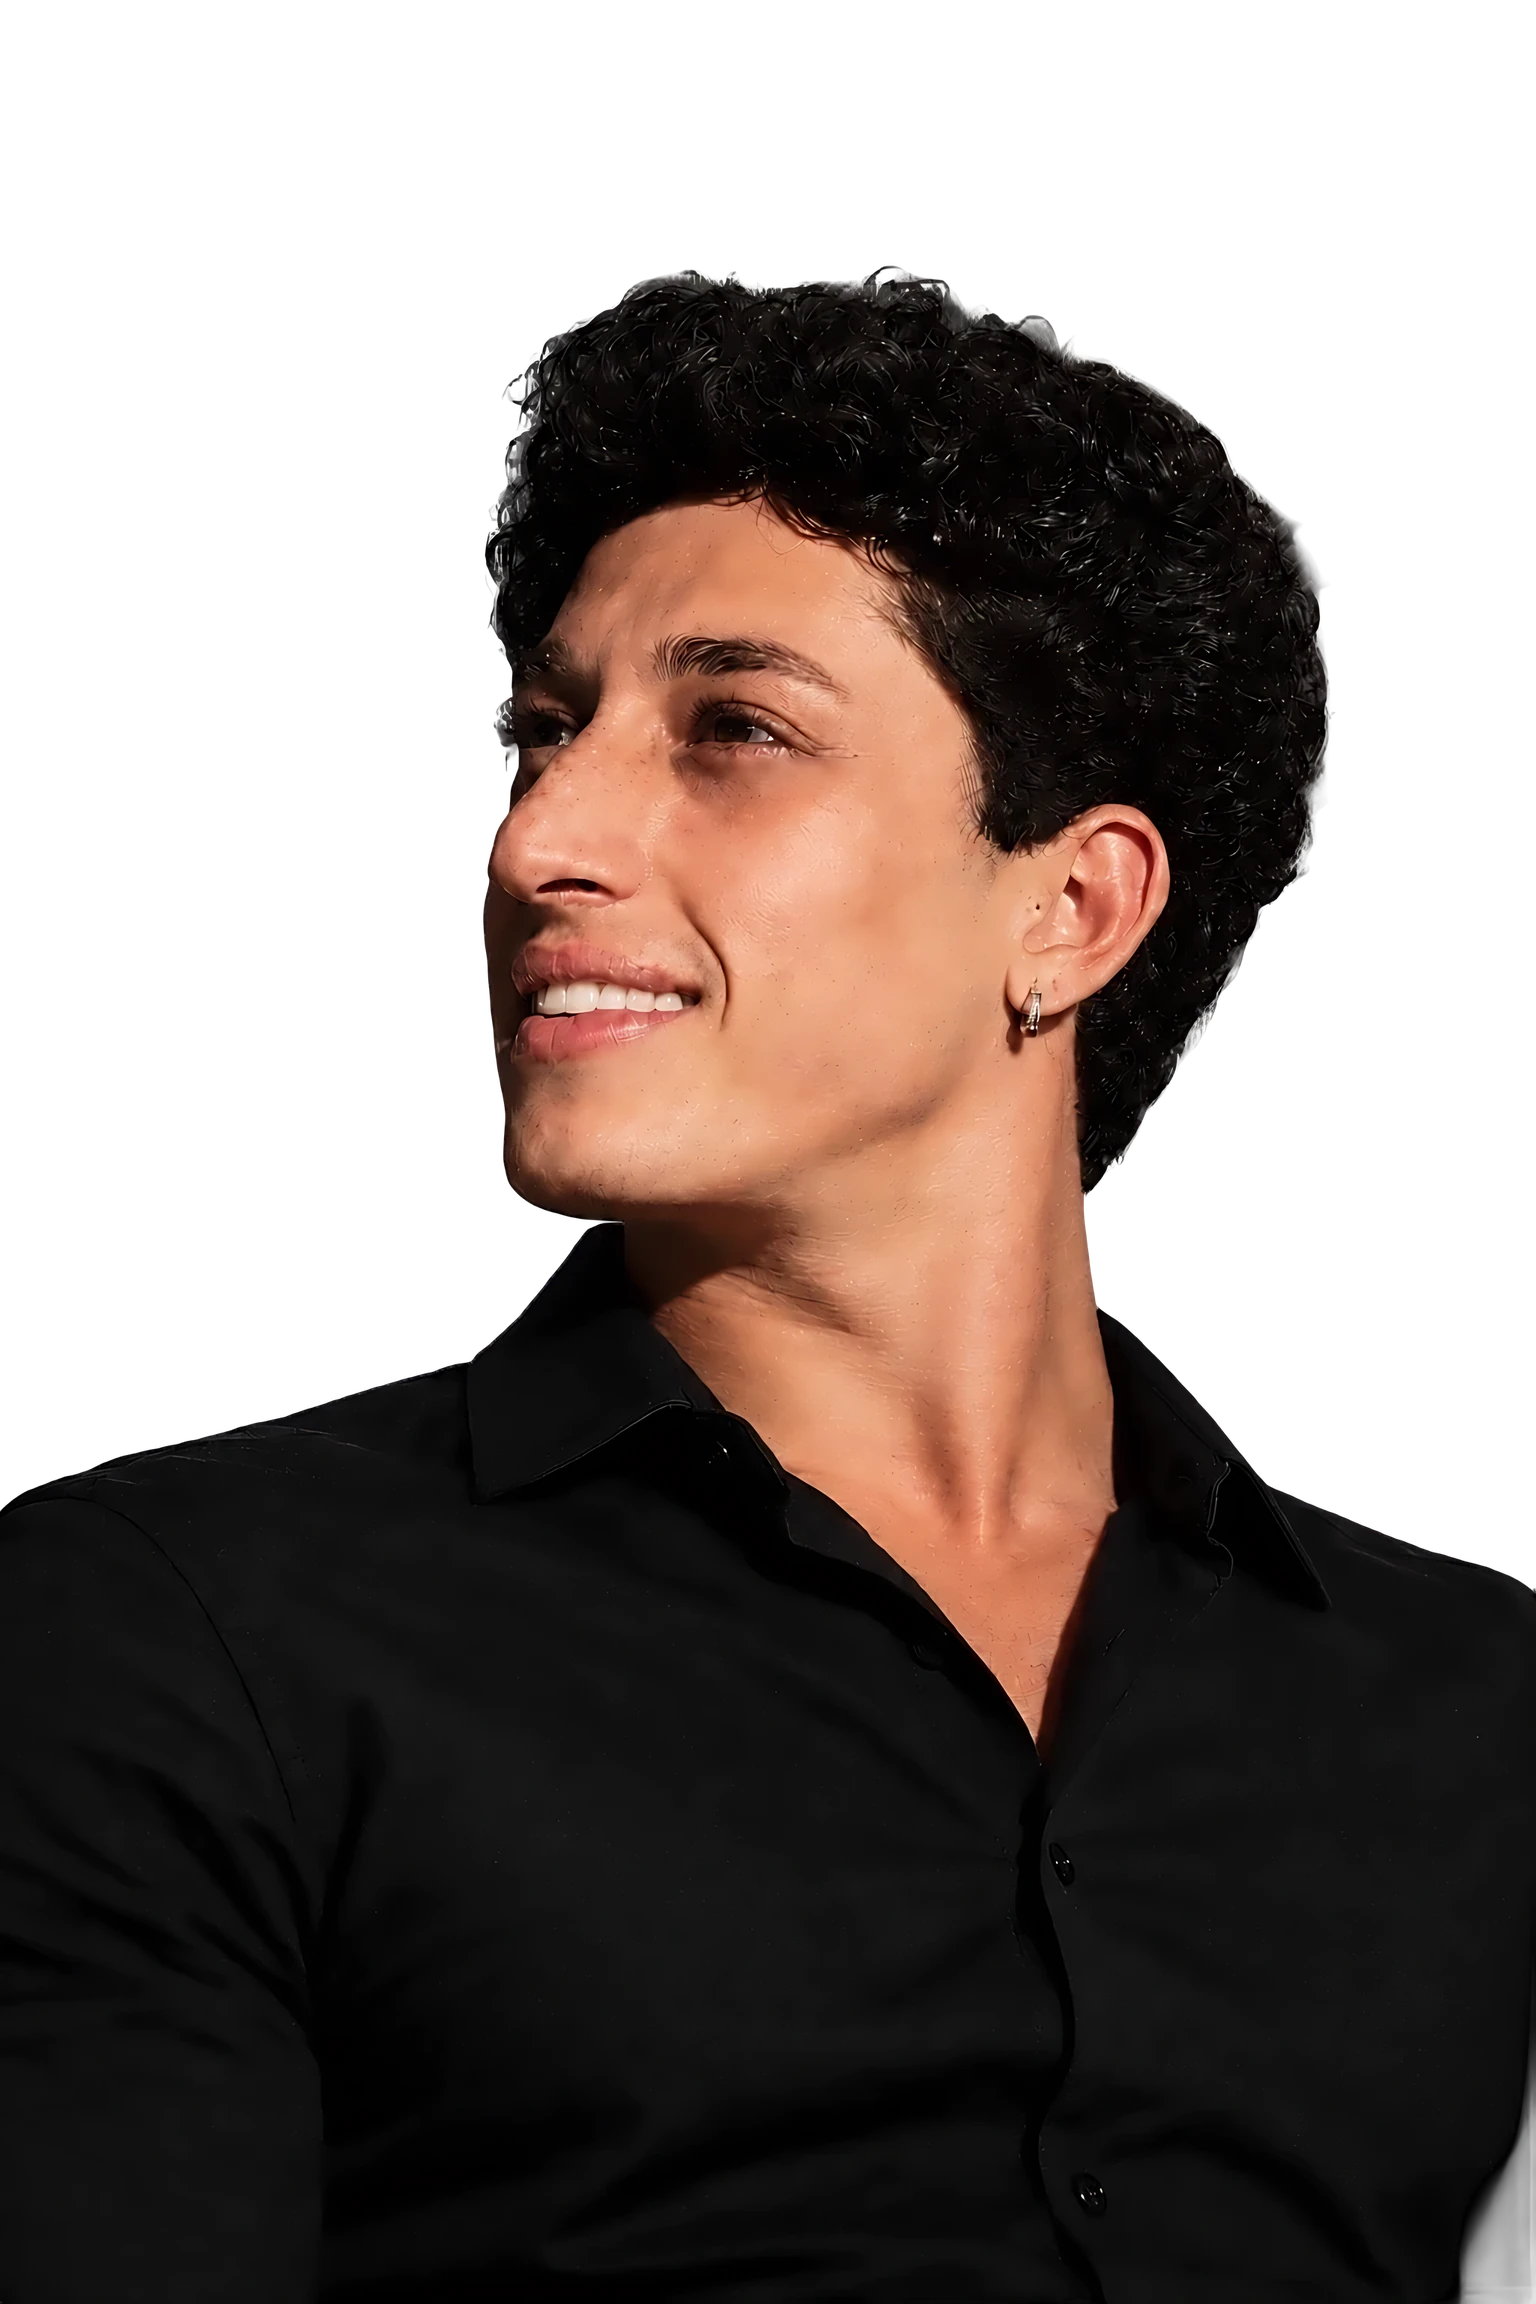
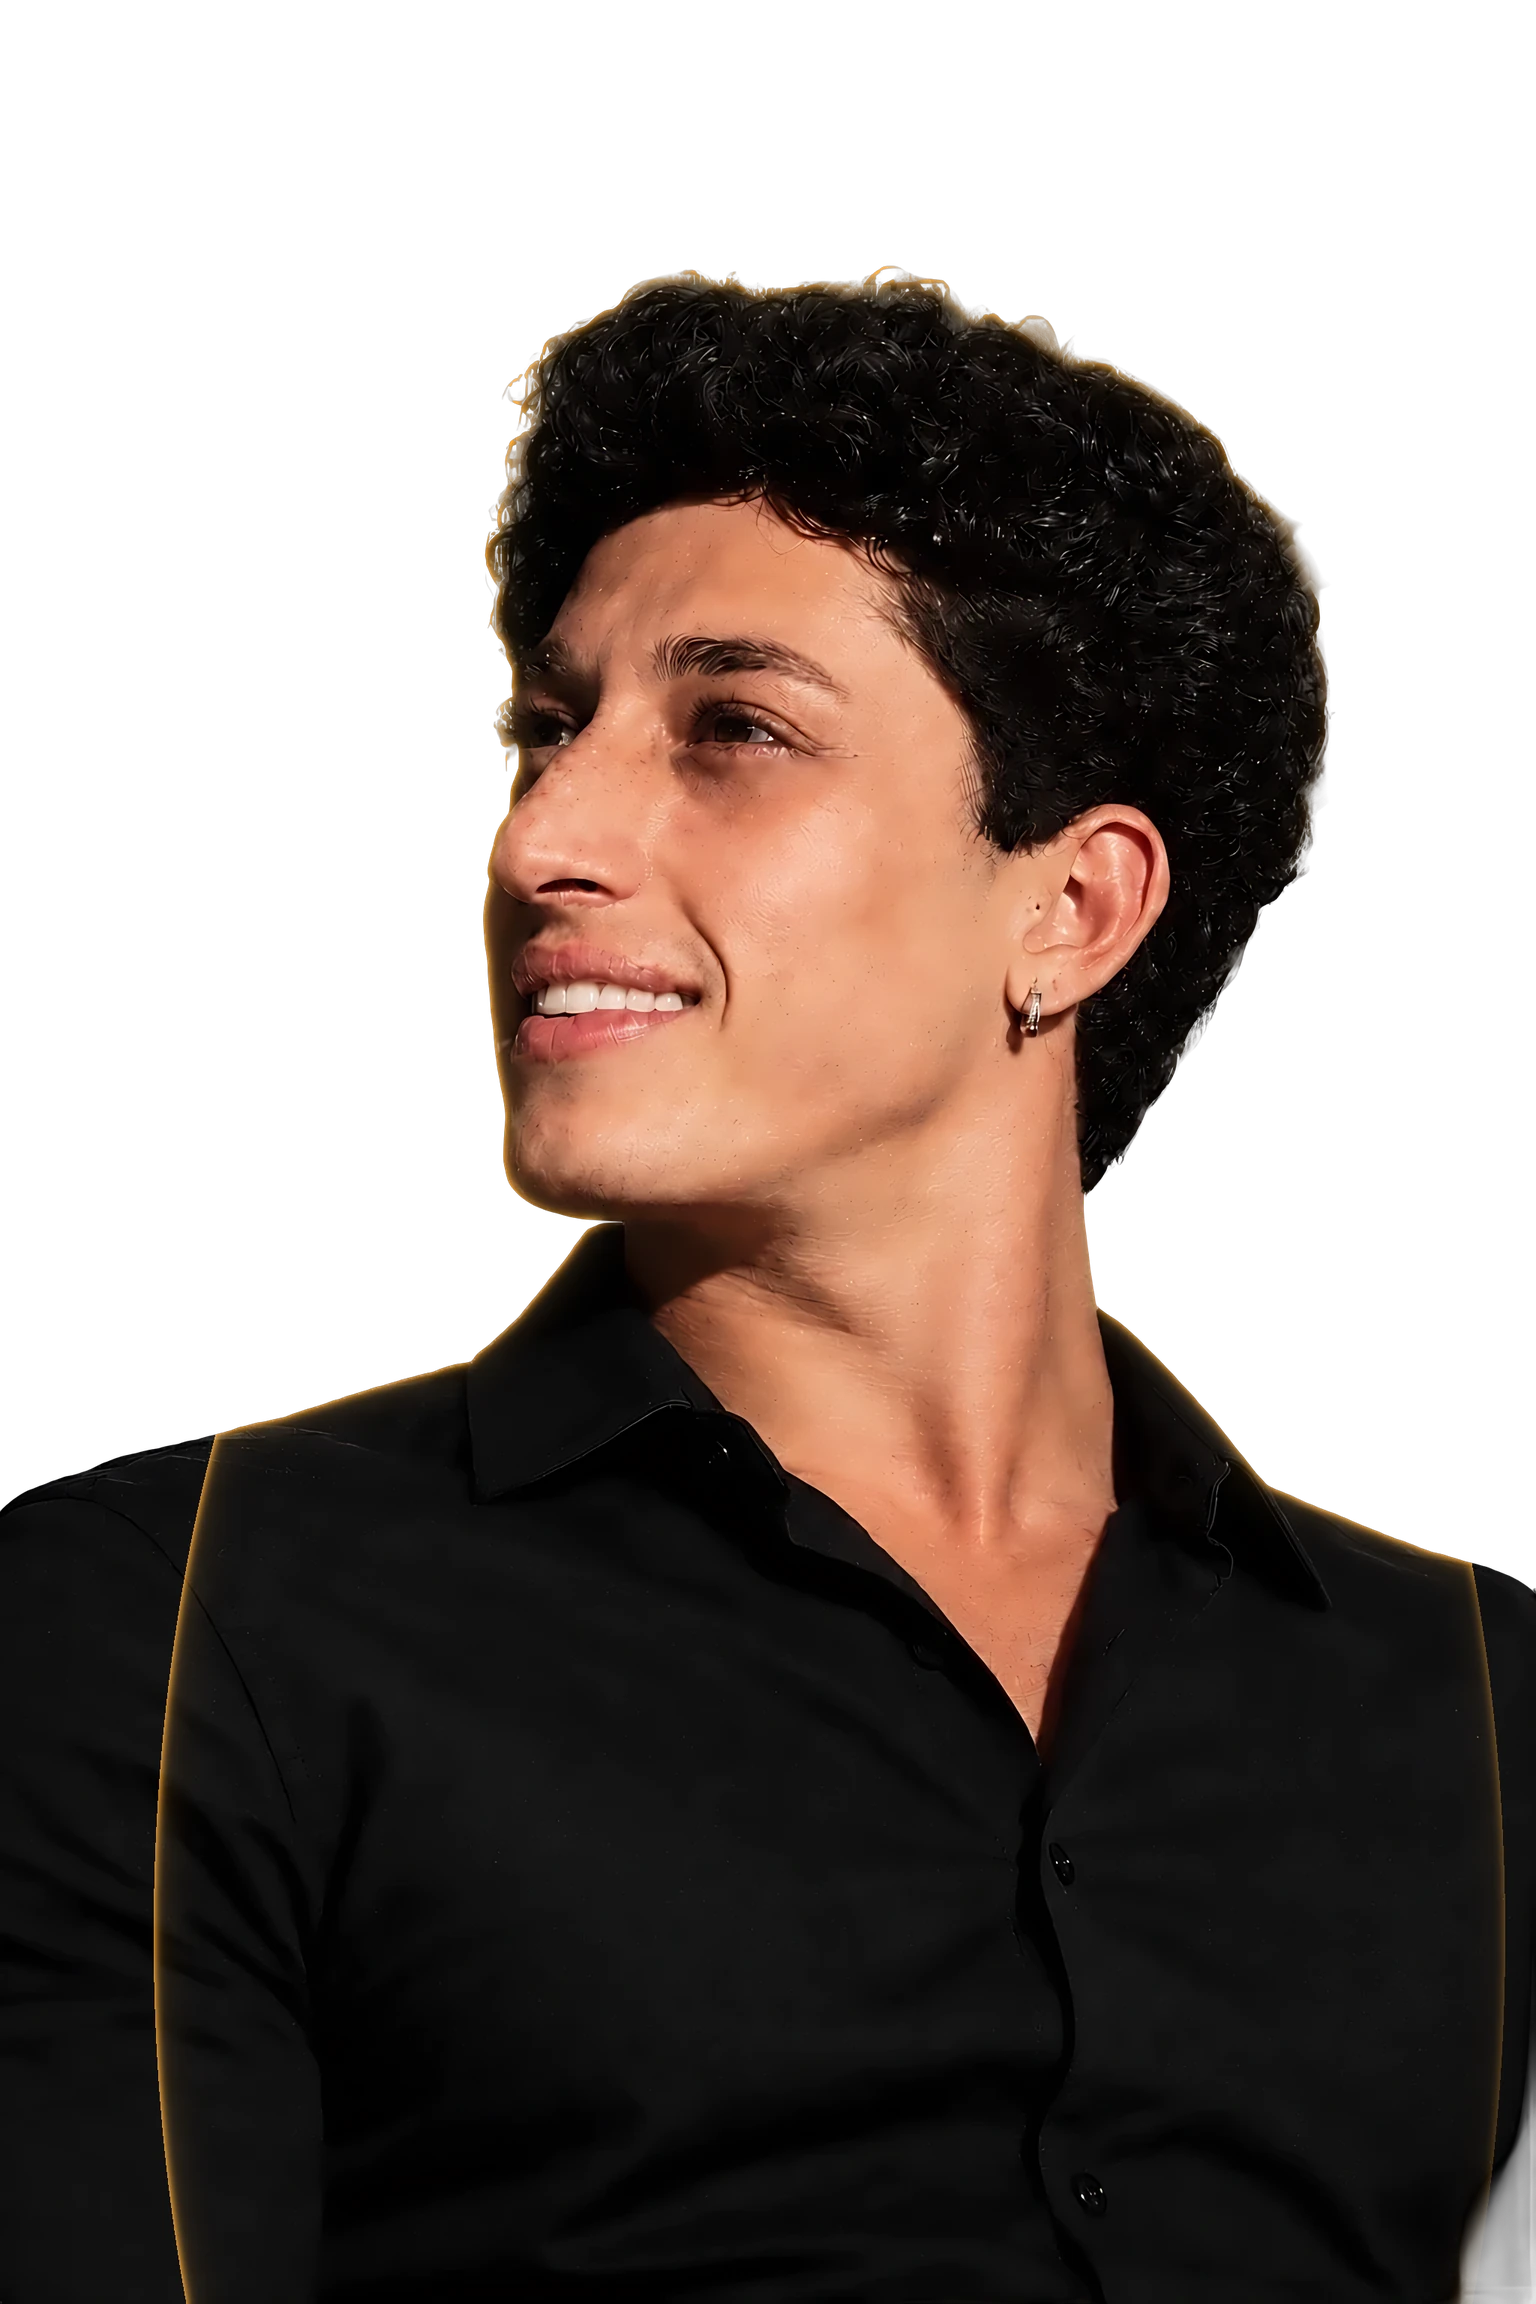
Hero: design amarelo igual à referência e brilho amarelo em volta da foto
As formas e cores foram medidas na imagem de referência (ajuste por mínimos
quadrados): fundo com o canto café, o vermelho-alaranjado e o brilho laranja
em volta da pessoa; um círculo vermelho-alaranjado no alto e um disco amarelo
atrás do ombro, os dois recortados por uma oval inclinada em volta da cabeça.
O desenho (svg.hero-art) tem a mesma caixa da foto e anda junto com ela
(entrada, mouse e rolagem), atrás do painel claro. Sai o "sol" com anéis.
Brilho amarelo: luz de contorno âmbar gravada na própria foto (como a luz de
fundo da referência) e um halo amarelo suave em volta da pessoa. O fundo da
hero fica parado (antes deslizava o tempo todo).

Claude-Session: https://claude.ai/code/session_01VHr8XGPDqS1aNneSxKosH7

diff --git a/css/style.css b/css/style.css
@@ -1491,40 +1491,34 @@ html.leve .pj-bg::before { -webkit-mask-image: none; mask-image: none; opacity: 
 @media (prefers-reduced-motion: reduce) { .intro .btn-work, .intro .btn-work::before, .intro .btn-work::after { animation: none; } }
 html.leve .intro .btn-work, html.leve .intro .btn-work::before, html.leve .intro .btn-work::after { animation: none; }
 
-/* ---------- Hero: o "sol" amarelo atrás da foto ----------
-   Paleta amarela da referência: um disco de luz amarelo → âmbar → laranja atrás da cabeça, com borda que se
-   dissolve no laranja do fundo, anéis concêntricos bem finos (dourados) em volta e um halo largo e suave.
-   Fica atrás do painel claro e da foto (z-index -1). Respira devagar; parado fora da tela, com "menos
-   movimento" e no modo leve. */
-.hero-sun {
-  position: absolute; z-index: -1; pointer-events: none;
-  left: 50cqw; top: 39.5cqh; width: 72cqh; aspect-ratio: 1; transform: translate(-50%, -50%);
+/* ---------- Hero: design amarelo da referência (svg.hero-art) ----------
+   Mesma caixa da foto (.person) para o desenho acompanhar a pessoa em qualquer tela; atrás do painel claro.
+   O fundo (.hero-bg) tem as cores medidas na referência: canto café, vermelho-alaranjado e o brilho laranja
+   em volta da pessoa, que aparece dentro da oval recortada. Tudo parado (nada repinta). */
+.hero-art {
+  position: absolute; z-index: -1; left: 48cqw; bottom: -10cqh; height: 117.5cqh; aspect-ratio: 1024 / 1536;
+  transform: translateX(-50%); overflow: visible; pointer-events: none;
 }
-.hero-sun::before {   /* halo largo amarelo-âmbar */
-  content: ""; position: absolute; inset: -38%; border-radius: 50%;
-  background: radial-gradient(closest-side, rgba(255, 196, 64, .55), rgba(255, 166, 40, .28) 45%, rgba(255, 140, 30, 0) 100%);
-}
-.hero-sun i {         /* o disco: centro amarelo-claro, borda âmbar que se dissolve */
-  position: absolute; inset: 0; border-radius: 50%;
+.gsap-loading .hero-art { opacity: 0; }
+.hero-bg, .hero-bg::after { animation: none !important; }
+.hero-bg { inset: 0; }
+.hero-bg::after { display: none; }
+.hero-bg {
   background:
-    radial-gradient(circle at 46% 42%, #fff1b8 0%, #ffe07a 16%, #ffc83d 36%, #ffab2a 56%, rgba(255, 140, 30, .55) 72%, rgba(255, 128, 28, 0) 82%);
-  box-shadow: 0 0 80px 20px rgba(255, 186, 60, .35);
-  animation: sun-breathe 7s ease-in-out infinite alternate;
+    radial-gradient(63.6cqh 91.6cqh at calc(48cqw - 21.2cqh) 71.3cqh, rgba(255, 153, 20, .87) 0%, rgba(255, 153, 20, .26) 50.8%, rgba(255, 153, 20, 0) 100%),
+    radial-gradient(39.3cqw 80cqh at 0 0, rgba(52, 26, 14, .58) 0%, rgba(52, 26, 14, 0) 100%),
+    linear-gradient(148deg, #b80a01 0%, #c34015 35%, #bf3e02 66.9%, #f36800 100%);
 }
-.hero-sun::after {    /* anéis concêntricos finos */
-  content: ""; position: absolute; inset: -30%; border-radius: 50%;
-  background: repeating-radial-gradient(circle, rgba(255, 224, 140, 0) 0 calc(6.2% - 1px), rgba(255, 224, 140, .42) calc(6.2% - 1px) 6.2%);
-  -webkit-mask-image: radial-gradient(closest-side, transparent 52%, #000 60%, #000 74%, transparent 100%);
-          mask-image: radial-gradient(closest-side, transparent 52%, #000 60%, #000 74%, transparent 100%);
-  opacity: .85;
-}
-@keyframes sun-breathe { from { transform: scale(.97); filter: brightness(.97); } to { transform: scale(1.03); filter: brightness(1.05); } }
 @media (max-width: 860px), (max-aspect-ratio: 4/5), (orientation: landscape) and (max-height: 500px) and (max-width: 1000px) {
-  .hero-sun { left: 50%; top: calc(var(--stage) * .5); width: min(118vw, calc(var(--stage) * .62)); }
+  .hero-art { position: relative; z-index: 1; grid-row: 1; grid-column: 1; left: 50%; bottom: auto; transform: translateX(-50%);
+    align-self: end; justify-self: start; width: min(100%, calc(var(--stage) * .5)); height: auto; margin: 0; }
+  .hero-bg {
+    background:
+      radial-gradient(80vw 46svh at 42% 72%, rgba(255, 153, 20, .85) 0%, rgba(255, 153, 20, .26) 50%, rgba(255, 153, 20, 0) 100%),
+      radial-gradient(80vw 50svh at 0 0, rgba(52, 26, 14, .6) 0%, rgba(52, 26, 14, 0) 100%),
+      linear-gradient(165deg, #b80a01 0%, #c34015 30%, #bf3e02 60%, #f36800 100%);
+  }
 }
 @media (orientation: landscape) and (max-height: 500px) and (max-width: 1000px) {
-  .hero-sun { left: 58%; top: calc(var(--stage) * .46); width: calc(var(--stage) * .82); }
+  .hero-art { grid-column: 1 / -1; left: 58%; width: calc(var(--stage) * .92 * 2 / 3); }
 }
-@media (prefers-reduced-motion: reduce) { .hero-sun i { animation: none; } }
-html.leve .hero-sun i { animation: none; }
-.gsap-loading .hero-sun { opacity: 0; }

diff --git a/js/main.js b/js/main.js
@@ -6,6 +6,8 @@ const reduceMotion = matchMedia('(prefers-reduced-motion: reduce)').matches;
 const leve = () => document.documentElement.classList.contains('leve');
 const hero = document.querySelector('.hero');
 const person = document.querySelector('.person');
+const art = document.querySelector('.hero-art');   // design amarelo atrás da foto: anda junto com ela
+const withArt = art ? [person, art] : person;
 const { gsap, ScrollTrigger } = window;
 const animate = Boolean(gsap && hero) && !reduceMotion;
 // mesma condição do layout de celular no css/style.css
@@ -101,7 +103,7 @@ if (animate) {
   nums.forEach(resetCount);
 
   // a foto é centralizada com translateX(-50%) no CSS; o GSAP passa a cuidar do transform
-  gsap.set(person, { xPercent: -50, x: 0, y: 0 });
+  gsap.set(withArt, { xPercent: -50, x: 0, y: 0 });
 
   // clearProps devolve o controle ao CSS no fim (efeitos de hover usam transform)
   const tl = gsap.timeline({ defaults: { ease: 'expo.out' } });
@@ -127,6 +129,7 @@ if (animate) {
   // fixo de 0,5 s: o painel claro aparecia através dela ("branco por cima da foto, depois
   // atrás") e, com internet lenta, ela surgia pela metade. Se demorar, entra assim que chegar.
   gsap.set(person, { autoAlpha: 0 });
+  if (art) gsap.set(art, { autoAlpha: 0, scale: 0.94, transformOrigin: '50% 45%' });
   photoReady().then(() => requestAnimationFrame(() => requestAnimationFrame(() => {
     gsap.fromTo(person,
       // sobe de baixo da moldura, inteira e opaca (sem efeito de aparecer)
@@ -134,6 +137,8 @@ if (animate) {
       { autoAlpha: 1, yPercent: 100 },
       { yPercent: 0, duration: 1.4, ease: 'expo.out',
         delay: Math.max(0, 0.5 - tl.time()) });
+    // o desenho amarelo aparece atrás quando a foto está chegando
+    if (art) gsap.to(art, { autoAlpha: 1, scale: 1, duration: 1.3, ease: 'expo.out', delay: Math.max(0, 0.5 - tl.time()) + 0.55 });
   })));
 
   // conteúdo do painel: selo, apresentação palavra por palavra e card da citação
@@ -172,19 +177,21 @@ if (animate && person) {
     // 1,8 s para alcançar o mouse (antes 0,9 s): o usuário pediu a foto mais lenta
     const toX = gsap.quickTo(person, 'x', { duration: 1.8, ease: 'power3.out' });
     const toY = gsap.quickTo(person, 'y', { duration: 1.8, ease: 'power3.out' });
+    const artX = art ? gsap.quickTo(art, 'x', { duration: 1.8, ease: 'power3.out' }) : () => {};
+    const artY = art ? gsap.quickTo(art, 'y', { duration: 1.8, ease: 'power3.out' }) : () => {};
     const move = (e) => {
       const r = hero.getBoundingClientRect();
-      toX((((e.clientX - r.left) / r.width) * 2 - 1) * 18);   // antes 26 px: o usuário pediu menos parallax
-      toY((((e.clientY - r.top) / r.height) * 2 - 1) * 11);   // antes 16 px
+      const mx = (((e.clientX - r.left) / r.width) * 2 - 1) * 18, my = (((e.clientY - r.top) / r.height) * 2 - 1) * 11;   // antes 26/16 px
+      toX(mx); toY(my); artX(mx); artY(my);
     };
-    const reset = () => { toX(0); toY(0); };
+    const reset = () => { toX(0); toY(0); artX(0); artY(0); };
     hero.addEventListener('pointermove', move);
     hero.addEventListener('pointerleave', reset);
     return () => { hero.removeEventListener('pointermove', move); hero.removeEventListener('pointerleave', reset); };
   });
   mm.add('not ((hover: hover) and (pointer: fine))', () => {
     if (!ScrollTrigger) return;
-    gsap.to(person, { y: () => innerHeight * 0.18, ease: 'none',
+    gsap.to(withArt, { y: () => innerHeight * 0.18, ease: 'none',
       scrollTrigger: { trigger: hero, start: 'top top', end: 'bottom top', scrub: 0.6, invalidateOnRefresh: true } });
   });
   // PC: descendo a página, a foto desce junto (30% da altura dela até a hero sair da tela);
@@ -192,7 +199,7 @@ if (animate && person) {
   // mesmo efeito acima, com y.)
   mm.add('(hover: hover) and (pointer: fine)', () => {
     if (!ScrollTrigger) return;
-    gsap.to(person, { yPercent: 30, ease: 'none',
+    gsap.to(withArt, { yPercent: 30, ease: 'none',
       scrollTrigger: { trigger: hero, start: 'top top', end: 'bottom top', scrub: 0.6, invalidateOnRefresh: true } });
   });
 }

diff --git a/index.html b/index.html
@@ -52,8 +52,29 @@
 <main class="hero">
   <!-- Lado laranja: fundo em gradiente com o brilho que flutua, logo, textos e números -->
   <div class="hero-bg" aria-hidden="true"></div>
-  <!-- "sol" amarelo atrás da foto: brilho amarelo-âmbar com anéis finos em volta (css/style.css) -->
-  <div class="hero-sun" aria-hidden="true"><i></i></div>
+  <!-- design amarelo atrás da foto, igual à referência: círculo vermelho-alaranjado no alto e disco amarelo
+       atrás do ombro, os dois recortados por uma oval inclinada em volta da cabeça (mostra o brilho do fundo),
+       e o halo amarelo em volta da pessoa. Coordenadas em pixels da foto (1024×1536): o desenho tem a mesma
+       caixa da .person e anda junto com ela (js/main.js); fica atrás do painel claro. -->
+  <svg class="hero-art" viewBox="0 0 1024 1536" aria-hidden="true" focusable="false">
+    <defs>
+      <linearGradient id="ha-top" gradientUnits="userSpaceOnUse" x1="177.2" y1="-207.1" x2="411" y2="251.7">
+        <stop offset="0" stop-color="#942207"/><stop offset="1" stop-color="#d24306"/>
+      </linearGradient>
+      <radialGradient id="ha-sun" gradientUnits="userSpaceOnUse" cx="142.8" cy="793.7" r="415.2">
+        <stop offset="0" stop-color="#e69924"/><stop offset=".58" stop-color="#fb9413"/><stop offset="1" stop-color="#ca6710"/>
+      </radialGradient>
+      <mask id="ha-oval" maskUnits="userSpaceOnUse" x="-600" y="-600" width="2400" height="2800">
+        <rect x="-600" y="-600" width="2400" height="2800" fill="#fff"/>
+        <ellipse cx="253.1" cy="497.6" rx="242.1" ry="355.5" transform="rotate(-20.1 253.1 497.6)" fill="#000"/>
+      </mask>
+    </defs>
+    <g mask="url(#ha-oval)">
+      <circle cx="294.1" cy="22.3" r="257.5" fill="url(#ha-top)"/>
+      <circle cx="276.7" cy="1012.8" r="386.7" fill="url(#ha-sun)"/>
+    </g>
+    <image class="hero-halo" href="img/gabriel-halo.webp" x="0" y="0" width="1024" height="1536" preserveAspectRatio="none"/>
+  </svg>
 
   <!-- marca: G e R ligados (a barra do G é a base da barriga do R) e um cursor de terminal piscando -->
   <a class="logo" href="#" aria-label="Gabriel Ribeiro, início">
